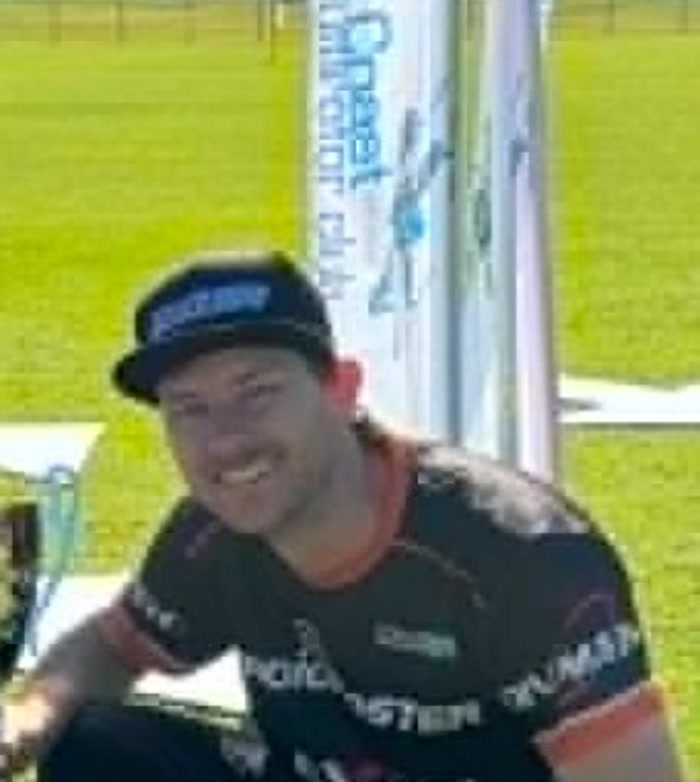
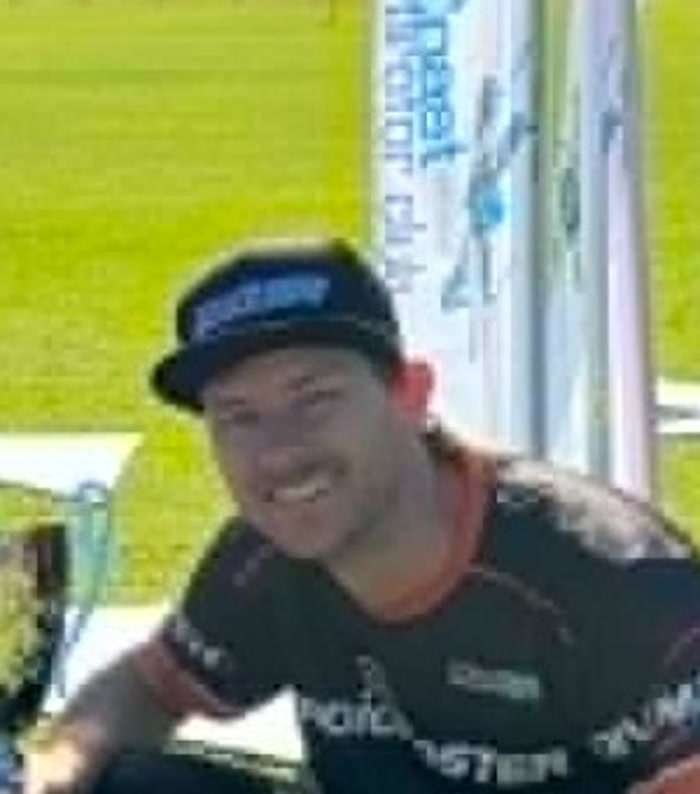
new video, new pilot photos

diff --git a/index.html b/index.html
@@ -738,7 +738,7 @@
                   <span class="star">★</span>
                   <span class="star">★</span>
                 </div>
-                <div class="pilot-card-image" style="background-image: url('./assets/pilots/Kurt.jpg'); background-position: center 20%"></div>
+                <div class="pilot-card-image" style="background-image: url('./assets/pilots/Kurt.jpg'); background-position: center center"></div>
                 <div class="pilot-card-info">
                   <div class="pilot-card-number">#011</div>
                   <h3 class="pilot-card-name">KURT</h3>
@@ -1833,6 +1833,72 @@
                       <li>Motors: TBD</li>
                       <li>FC: TBD</li>
                       <li>Camera: TBD</li>
+                    </ul>
+                  </div>
+                </div>
+              </div>
+            </div>
+          </div>
+
+          <!-- Pilot Card 25 - Kayl Hosken -->
+          <div class="pilot-card">
+            <div class="pilot-card-inner">
+              <div class="pilot-card-front">
+                <div class="pilot-card-banner"></div>
+                <div class="pilot-card-tenure-stars">
+                  <span class="star">★</span>
+                  <span class="star">★</span>
+                  <span class="star">★</span>
+                </div>
+                <div class="pilot-card-image" style="background-image: url('./assets/pilots/kaylHosken.jpg'); background-position: center 15%"></div>
+                <div class="pilot-card-info">
+                  <div class="pilot-card-number">#037</div>
+                  <h3 class="pilot-card-name">KAYL</h3>
+                  <div class="pilot-card-specialty">Storm Chaser</div>
+                </div>
+                <div class="pilot-card-team">WCMRC</div>
+                <div class="pilot-card-shine"></div>
+              </div>
+              <div class="pilot-card-back">
+                <div class="pilot-card-back-content">
+                  <h3 class="pilot-card-name">Kayl Hosken</h3>
+                  <div class="pilot-card-nickname">"THE FORECAST"</div>
+                  <div class="pilot-stats">
+                    <div class="pilot-stat">
+                      <div class="pilot-stat-label">Experience</div>
+                      <div class="pilot-stat-value">3 Years of Mixed Weather</div>
+                    </div>
+                    <div class="pilot-stat">
+                      <div class="pilot-stat-label">Top Speed</div>
+                      <div class="pilot-stat-value">178 KPH (tailwind assisted)</div>
+                    </div>
+                    <div class="pilot-stat">
+                      <div class="pilot-stat-label">Wins</div>
+                      <div class="pilot-stat-value">12 (all sunny days)</div>
+                    </div>
+                    <div class="pilot-stat">
+                      <div class="pilot-stat-label">Podiums</div>
+                      <div class="pilot-stat-value">27 + 1 lightning strike</div>
+                    </div>
+                    <div class="pilot-stat">
+                      <div class="pilot-stat-label">Preferred Class</div>
+                      <div class="pilot-stat-value">5" Racing / Coastal Freestyle</div>
+                    </div>
+                    <div class="pilot-stat">
+                      <div class="pilot-stat-label">Racing Style</div>
+                      <div class="pilot-stat-value">Calm in the chaos</div>
+                    </div>
+                  </div>
+                  <div class="pilot-bio">
+                    <p>Part desert storm, part lighthouse calm. Kayl shows up ready for whatever the WA weather throws at race day — HDZero locked, sticks steady, red props spinning.</p>
+                  </div>
+                  <div class="pilot-drone-specs">
+                    <h4>Current Build</h4>
+                    <ul>
+                      <li>Frame: Carbon send machine</li>
+                      <li>Motors: Hot enough to dry the grass</li>
+                      <li>FC: SpeedyBee F405 V4</li>
+                      <li>Camera: HDZero — no fog, no fear</li>
                     </ul>
                   </div>
                 </div>
